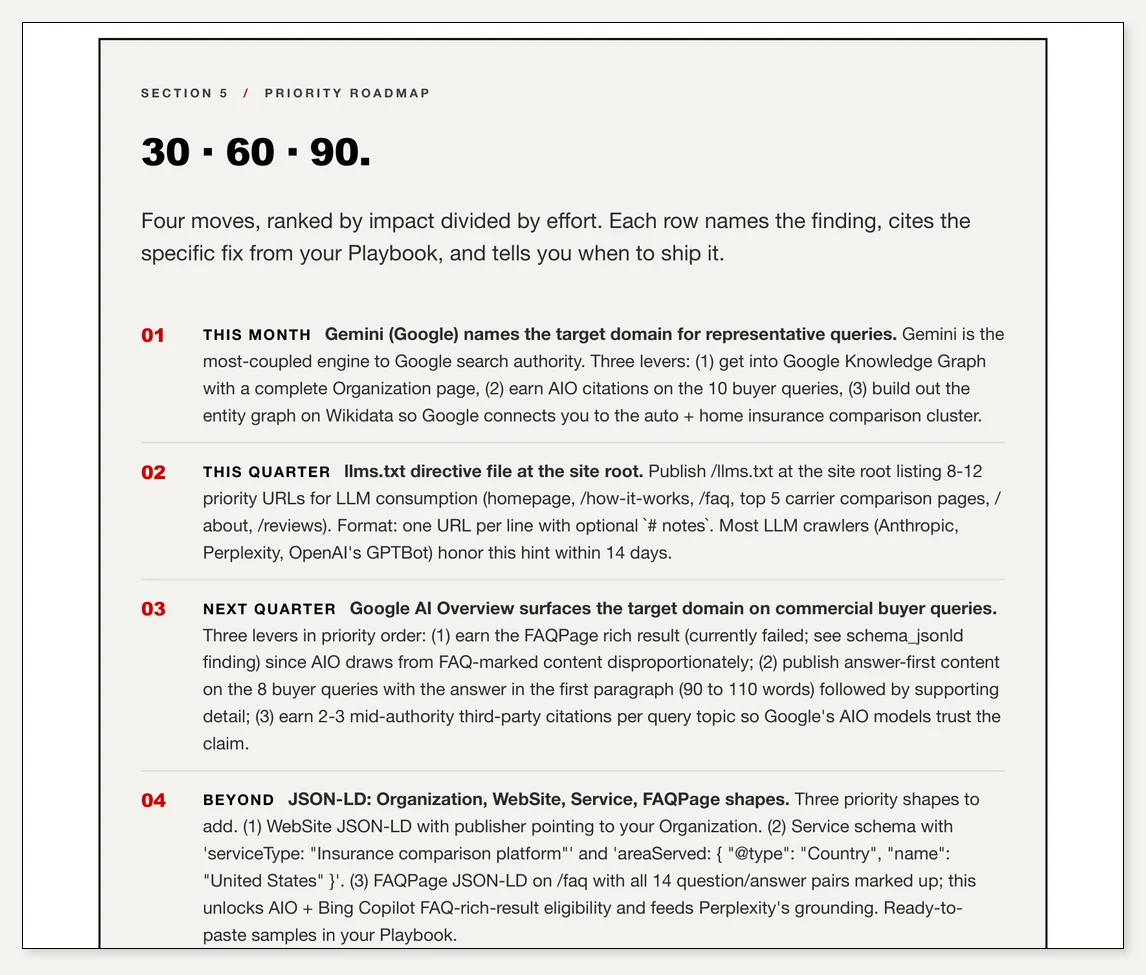
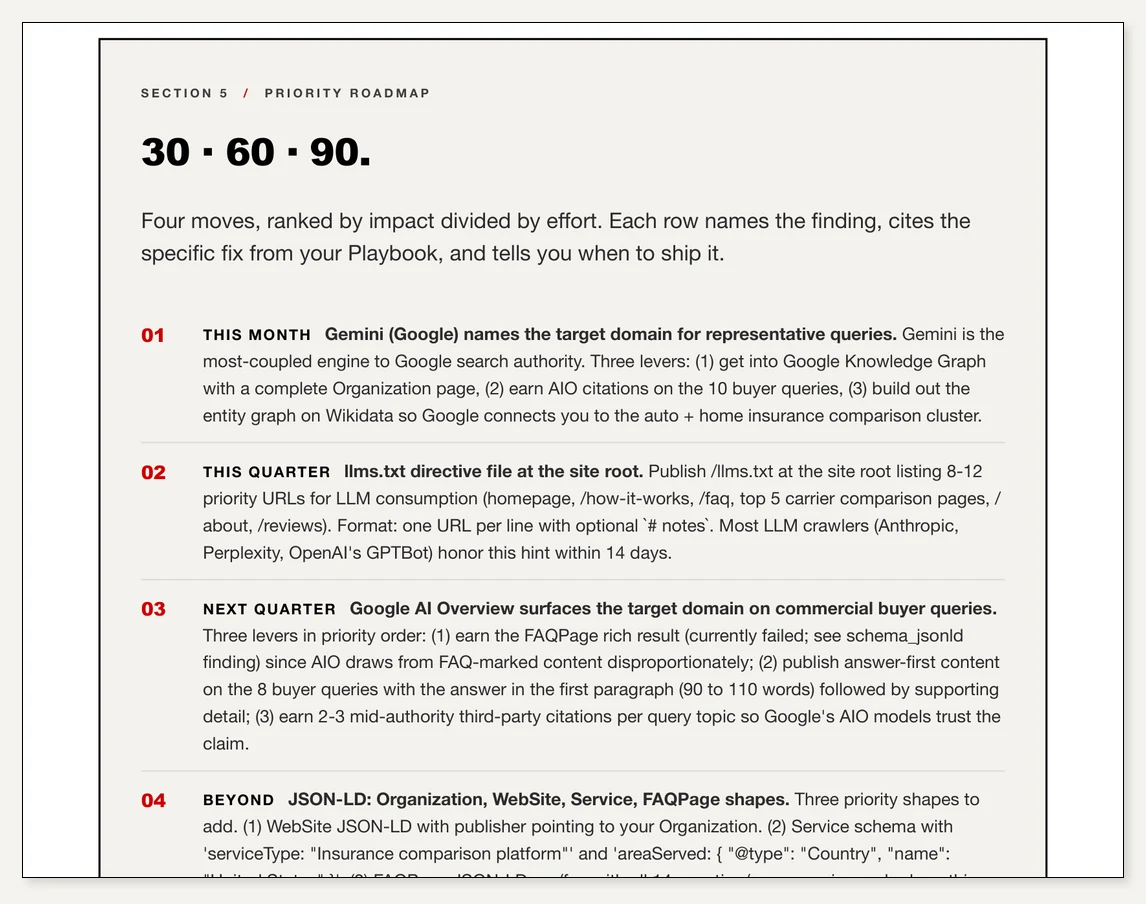
feat(gallery): operator feedback round 1 (crops + symmetry + thumbnail lightbox + headline fix) (#31)
Four-item feedback batch, all addressed.

1. Cover crop tightened from 0.55 to 0.50 of page height. Drops the
   thin black divider rule that previously rendered as a sliver at
   the bottom edge of the screenshot.

2. Side-by-side tile heights matched in pairs so the gallery reads
   as a clean 2x or 4x grid. Crop-fraction adjustments:
   - 02 Top patterns + 03 Findings cards: both 1146x832
   - 04 Priority roadmap + 05 Schema pack: both 1146x904
   - 06 Playbook executive + 07 Playbook content: both 1146x1294
   01 Cover stays solo at 1146x761.

3. Replaces the static 7-figure gallery on services.html with a
   click-to-enlarge thumbnail gallery + vanilla-JS lightbox. Each
   thumbnail tile is small, with a single-word brief caption (Cover,
   Findings, Roadmap, Schema, Playbook overview, Playbook checks).
   Click opens a modal with the full-size image + the longer
   descriptive caption. Lightbox supports: click backdrop to close,
   ESC to close, focus return to the trigger thumbnail. Zero new JS
   dependencies; about 30 lines inline.

4. Playbook headline copy rebalanced. The previous "Claimzilla is
   cited 40% of the time. / Insurify is cited 80%." was wrapping
   to "Claimzilla is cited 40% of the / time." inside the
   1100-px-wide gallery tile; the awkward mid-sentence break was
   visible in the rendered screenshot. New copy "Claimzilla cited
   40%. / Insurify cited 80%." is parallel-structured and short
   enough that each sentence sits on its own line.
[…]

diff --git a/services.html b/services.html
@@ -303,91 +303,131 @@
           <p class="lead">Every SXO Audit produces two artifacts: a printable PDF and an interactive Playbook with seven tabs of remediation depth. Snippets below are from a sample audit run against <code>claimzilla.example</code>, a fabricated B2C insurance comparison site. Want the full sample? <a href="/contact.html">Email us</a> and we'll send the PDF + Playbook URL.</p>
         </div>
 
-        <div class="sample-shots">
-          <figure class="sample-shot sample-shots__hero sample-shot--accent">
-            <img
-              src="og/sample-gallery/01-audit-cover-hero.webp"
-              alt="SXO Audit PDF cover: brutalist masthead with 'CITED 80% OF THE TIME. BENCHMARKED VS COMPETITORS.' headline in 80pt Helvetica."
-              width="1146" height="832" loading="lazy" decoding="async"
-            />
-            <figcaption>
-              <strong>The cover tells the story in one number</strong>
-              Where the leader sits on your buyer-question prompt grid. The body of the report tells you why and how to close the gap.
-            </figcaption>
-          </figure>
+        <ul class="thumb-grid" id="sampleThumbs">
+          <li>
+            <button type="button" class="thumb"
+              data-img="og/sample-gallery/01-audit-cover-hero.webp"
+              data-w="1146" data-h="761"
+              data-title="The cover tells the story in one number"
+              data-detail="Where the leader sits on your buyer-question prompt grid. The body of the report tells you why and how to close the gap.">
+              <img src="og/sample-gallery/01-audit-cover-hero.webp" alt="SXO Audit PDF cover with the headline citation share." width="1146" height="761" loading="lazy" decoding="async" />
+              <span class="thumb-cap">Cover</span>
+            </button>
+          </li>
+          <li>
+            <button type="button" class="thumb"
+              data-img="og/sample-gallery/02-audit-top-patterns.webp"
+              data-w="1146" data-h="832"
+              data-title="The three patterns moving the needle"
+              data-detail="Not a 200-row spreadsheet. The audit picks the three highest-leverage patterns and writes the narrative your stakeholders can read.">
+              <img src="og/sample-gallery/02-audit-top-patterns.webp" alt="Numbered top patterns with summary." width="1146" height="832" loading="lazy" decoding="async" />
+              <span class="thumb-cap">Top patterns</span>
+            </button>
+          </li>
+          <li>
+            <button type="button" class="thumb"
+              data-img="og/sample-gallery/03-audit-findings-cards.webp"
+              data-w="1146" data-h="832"
+              data-title="Every finding, ranked by severity"
+              data-detail="Numbered, themed, severity-graded. Your team works the list top-to-bottom; nothing escapes triage.">
+              <img src="og/sample-gallery/03-audit-findings-cards.webp" alt="Findings card list with severity badges." width="1146" height="832" loading="lazy" decoding="async" />
+              <span class="thumb-cap">Findings</span>
+            </button>
+          </li>
+          <li>
+            <button type="button" class="thumb"
+              data-img="og/sample-gallery/04-audit-priority-roadmap.webp"
+              data-w="1146" data-h="904"
+              data-title="The 30 &middot; 60 &middot; 90 priority roadmap"
+              data-detail="Four moves, ranked by impact divided by effort. Each row names the finding, cites the specific fix from your Playbook, and tells you when to ship it.">
+              <img src="og/sample-gallery/04-audit-priority-roadmap.webp" alt="Priority roadmap ladder with this-month / quarter / next-quarter rows." width="1146" height="904" loading="lazy" decoding="async" />
+              <span class="thumb-cap">Roadmap</span>
+            </button>
+          </li>
+          <li>
+            <button type="button" class="thumb"
+              data-img="og/sample-gallery/05-audit-schema-pack.webp"
+              data-w="1146" data-h="904"
+              data-title="Schema coverage, at a glance"
+              data-detail="Per-page JSON-LD generated from your audit. Coverage percent + present / missing breakdown. Drop the head-paste-ready blocks into your &lt;head&gt;, validate via Google Rich Results Test, ship.">
+              <img src="og/sample-gallery/05-audit-schema-pack.webp" alt="Schema pack panel showing coverage stat and present/missing breakdown." width="1146" height="904" loading="lazy" decoding="async" />
+              <span class="thumb-cap">Schema</span>
+            </button>
+          </li>
+          <li>
+            <button type="button" class="thumb"
+              data-img="og/sample-gallery/06-playbook-exec-top.webp"
+              data-w="1146" data-h="1294"
+              data-title="The Playbook is your remediation desk"
+              data-detail="Seven tabs. Executive summary, scorecard, every check, priority fixes, schema pack, prompt grid, glossary. Linkable per section so your engineering and content teams hit the same source of truth.">
+              <img src="og/sample-gallery/06-playbook-exec-top.webp" alt="Playbook executive summary with KPI strip and per-engine bar chart." width="1146" height="1294" loading="lazy" decoding="async" />
+              <span class="thumb-cap">Playbook overview</span>
+            </button>
+          </li>
+          <li>
+            <button type="button" class="thumb"
+              data-img="og/sample-gallery/07-playbook-content.webp"
+              data-w="1146" data-h="1294"
+              data-title="Severity-graded finding cards"
+              data-detail="High / medium / clean. Each card links into the Library tab for the universal best-practice entry behind the check.">
+              <img src="og/sample-gallery/07-playbook-content.webp" alt="Playbook severity-graded finding cards." width="1146" height="1294" loading="lazy" decoding="async" />
+              <span class="thumb-cap">Playbook checks</span>
+            </button>
+          </li>
+        </ul>
 
-          <figure class="sample-shot">
-            <img
-              src="og/sample-gallery/03-audit-findings-cards.webp"
-              alt="SXO Audit findings: numbered card list (01 Gemini, 02 ChatGPT, 03 Claude, 04 Perplexity) with severity badges (HIGH, MEDIUM) and one-paragraph summaries."
-              width="1146" height="904" loading="lazy" decoding="async"
-            />
-            <figcaption>
-              <strong>Every finding, ranked by severity</strong>
-              Numbered, themed, severity-graded. Your team works the list top-to-bottom; nothing escapes triage.
-            </figcaption>
-          </figure>
-
-          <figure class="sample-shot">
-            <img
-              src="og/sample-gallery/04-audit-priority-roadmap.webp"
-              alt="SXO Audit priority roadmap: 5 ranked fixes with effort estimates and impact tags."
-              width="1146" height="975" loading="lazy" decoding="async"
-            />
-            <figcaption>
-              <strong>The 30-day priority roadmap</strong>
-              Five fixes, ranked by impact divided by effort. Ship in order; re-audit at 30 days to measure lift.
-            </figcaption>
-          </figure>
-
-          <figure class="sample-shot">
-            <img
-              src="og/sample-gallery/05-audit-schema-pack.webp"
-              alt="SXO Audit schema pack: copy-paste JSON-LD code block on dark background showing Organization + WebSite combined @graph payload."
-              width="1146" height="904" loading="lazy" decoding="async"
-            />
-            <figcaption>
-              <strong>Copy-paste schema, validated</strong>
-              Per-page JSON-LD generated from your audit. Drop into your <code>&lt;head&gt;</code>, validate, ship. No placeholder text.
-            </figcaption>
-          </figure>
-
-          <figure class="sample-shot sample-shots__hero">
-            <img
-              src="og/sample-gallery/06-playbook-exec-top.webp"
-              alt="Web Cited Playbook executive summary: 7-tab navigation, KPI strip showing 40% / 80% / 17 findings / 5 priority fixes, and a per-engine bar chart."
-              width="1146" height="1372" loading="lazy" decoding="async"
-            />
-            <figcaption>
-              <strong>The Playbook is your remediation desk</strong>
-              Seven tabs. Executive summary, scorecard, every check, priority fixes, schema pack, prompt grid, glossary. Linkable per section so your engineering and content teams hit the same source of truth.
-            </figcaption>
-          </figure>
-
-          <figure class="sample-shot">
-            <img
-              src="og/sample-gallery/02-audit-top-patterns.webp"
-              alt="SXO Audit top patterns section: numbered list of the three patterns moving the needle, each with a finding-card style summary."
-              width="1146" height="832" loading="lazy" decoding="async"
-            />
-            <figcaption>
-              <strong>The three patterns moving the needle</strong>
-              Not a 200-row spreadsheet. The audit picks the three highest-leverage patterns and writes the narrative your stakeholders can read.
-            </figcaption>
-          </figure>
-
-          <figure class="sample-shot">
-            <img
-              src="og/sample-gallery/07-playbook-content.webp"
-              alt="Playbook page 2: continued executive content with finding cards (high/medium/clean severity) and a fix callout per card."
-              width="1146" height="1372" loading="lazy" decoding="async"
-            />
-            <figcaption>
-              <strong>Severity-graded finding cards</strong>
-              High / medium / clean. Each card links into the Library tab for the universal best-practice entry behind the check.
-            </figcaption>
-          </figure>
+        <!-- Lightbox: hidden by default; click any thumbnail to open. -->
+        <div class="lb" id="sampleLightbox" aria-hidden="true" role="dialog" aria-modal="true" aria-labelledby="lbTitle">
+          <button type="button" class="lb-close" aria-label="Close">&times;</button>
+          <div class="lb-frame">
+            <img class="lb-img" id="lbImg" alt="" />
+            <div class="lb-cap">
+              <strong id="lbTitle"></strong>
+              <span id="lbDetail"></span>
+            </div>
+          </div>
         </div>
+
+        <script>
+        (function () {
+          var thumbs = document.querySelectorAll('#sampleThumbs .thumb');
+          var lb = document.getElementById('sampleLightbox');
+          var img = document.getElementById('lbImg');
+          var title = document.getElementById('lbTitle');
+          var detail = document.getElementById('lbDetail');
+          var closeBtn = lb.querySelector('.lb-close');
+          var lastFocus = null;
+
+          function open(btn) {
+            lastFocus = btn;
+            img.src = btn.getAttribute('data-img');
+            img.alt = btn.querySelector('img').alt;
+            img.width = +btn.getAttribute('data-w');
+            img.height = +btn.getAttribute('data-h');
+            title.innerHTML = btn.getAttribute('data-title');
+            detail.textContent = btn.getAttribute('data-detail');
+            lb.classList.add('is-open');
+            lb.setAttribute('aria-hidden', 'false');
+            document.body.style.overflow = 'hidden';
+            closeBtn.focus();
+          }
+          function close() {
+            lb.classList.remove('is-open');
+            lb.setAttribute('aria-hidden', 'true');
+            img.src = '';
+            document.body.style.overflow = '';
+            if (lastFocus) lastFocus.focus();
+          }
+          for (var i = 0; i < thumbs.length; i++) {
+            thumbs[i].addEventListener('click', (function (b) { return function () { open(b); }; })(thumbs[i]));
+          }
+          closeBtn.addEventListener('click', close);
+          lb.addEventListener('click', function (e) { if (e.target === lb) close(); });
+          document.addEventListener('keydown', function (e) {
+            if (e.key === 'Escape' && lb.classList.contains('is-open')) close();
+          });
+        })();
+        </script>
       </div>
     </section>
 

diff --git a/css/styles.css b/css/styles.css
@@ -1472,45 +1472,117 @@ details.faq__item p {
 .form-retry h2 { margin-top: 0; }
 .form-retry .submit-row { margin-top: 1.25rem; }
 
-/* ---------- Sample-report screenshots ------------------------------- */
-.sample-shots {
+/* ---------- Sample-report thumbnail gallery + lightbox ---------------- */
+.thumb-grid {
+  list-style: none;
+  margin: 1.5rem 0 0;
+  padding: 0;
   display: grid;
-  grid-template-columns: 1fr;
-  gap: clamp(1rem, 2vw, 1.5rem);
-  margin-top: 1.5rem;
+  grid-template-columns: repeat(2, 1fr);
+  gap: clamp(0.75rem, 1.5vw, 1.25rem);
 }
 @media (min-width: 720px) {
-  .sample-shots { grid-template-columns: 1fr 1fr; }
-  .sample-shots .sample-shots__hero { grid-column: 1 / -1; }
+  .thumb-grid { grid-template-columns: repeat(3, 1fr); }
 }
-.sample-shot {
-  border: var(--rule);
+@media (min-width: 1080px) {
+  .thumb-grid { grid-template-columns: repeat(4, 1fr); }
+}
+.thumb-grid li { margin: 0; padding: 0; }
+.thumb {
+  width: 100%;
   background: var(--paper-white);
-  padding: clamp(0.75rem, 1.5vw, 1.25rem);
+  border: var(--rule);
+  padding: 0.5rem 0.5rem 0.65rem;
+  cursor: pointer;
   display: flex;
   flex-direction: column;
-  gap: 0.75rem;
+  gap: 0.45rem;
+  font-family: inherit;
+  text-align: center;
+  transition: transform 100ms ease, border-color 100ms ease;
 }
-.sample-shot img {
+.thumb:hover, .thumb:focus-visible {
+  transform: translateY(-1px);
+  border-color: var(--accent);
+  outline: none;
+}
+.thumb img {
+  width: 100%;
+  height: 140px;
+  object-fit: cover;
+  object-position: top center;
+  display: block;
+  border: 1px solid var(--slate-200);
+}
+.thumb-cap {
+  font-size: 0.78rem;
+  letter-spacing: 0.04em;
+  text-transform: uppercase;
+  font-weight: 700;
+  color: var(--ink);
+}
+
+.lb {
+  position: fixed; inset: 0;
+  background: rgba(0, 0, 0, 0.78);
+  display: none;
+  align-items: center;
+  justify-content: center;
+  padding: clamp(1rem, 3vw, 2.5rem);
+  z-index: 1000;
+}
+.lb.is-open { display: flex; }
+.lb-frame {
+  background: var(--paper-white);
+  max-width: min(1100px, 95vw);
+  max-height: 90vh;
+  display: flex;
+  flex-direction: column;
+  border: var(--rule);
+  overflow: auto;
+}
+.lb-img {
   width: 100%;
   height: auto;
-  border: 1px solid var(--slate-200);
   display: block;
+  border-bottom: 1px solid var(--slate-200);
 }
-.sample-shot figcaption {
-  font-size: 0.875rem;
-  color: var(--slate-700);
-  line-height: 1.5;
+.lb-cap {
+  padding: 1rem 1.25rem 1.25rem;
+  font-size: 0.95rem;
+  line-height: 1.55;
+  color: var(--slate-800);
 }
-.sample-shot figcaption strong {
+.lb-cap strong {
   display: block;
   color: var(--ink);
   font-weight: 800;
-  margin-bottom: 0.15rem;
+  font-size: 1.1rem;
+  margin-bottom: 0.35rem;
   letter-spacing: -0.005em;
 }
-.sample-shot--accent {
-  border-left: 4px solid var(--accent);
+.lb-close {
+  position: absolute;
+  top: clamp(0.5rem, 1.5vw, 1rem);
+  right: clamp(0.75rem, 2vw, 1.25rem);
+  background: var(--paper-white);
+  color: var(--ink);
+  border: var(--rule);
+  width: 44px;
+  height: 44px;
+  font-size: 1.4rem;
+  font-weight: 800;
+  line-height: 1;
+  cursor: pointer;
+  display: inline-flex;
+  align-items: center;
+  justify-content: center;
+}
+.lb-close:hover, .lb-close:focus-visible {
+  background: var(--accent);
+  color: var(--paper-white);
+  border-color: var(--accent);
+  outline: none;
 }
 
 .case-card {

diff --git a/docs/sample/playbook-claimzilla.html b/docs/sample/playbook-claimzilla.html
@@ -451,7 +451,7 @@
     <!-- 01 Executive Summary -->
     <section class="pb-section" id="exec">
       <div class="pb-eyebrow">Section 01 &middot; Executive Summary</div>
-      <h1 class="pb-title">Claimzilla is cited 40% of the time.<br>Insurify is cited 80%.</h1>
+      <h1 class="pb-title">Claimzilla cited 40%.<br>Insurify cited 80%.</h1>
       <p class="pb-lede">
         Across 10 buyer-question prompts run against ChatGPT, Claude, Gemini, and
         Perplexity, Claimzilla earns the citation 4 times. Insurify earns it 8.
